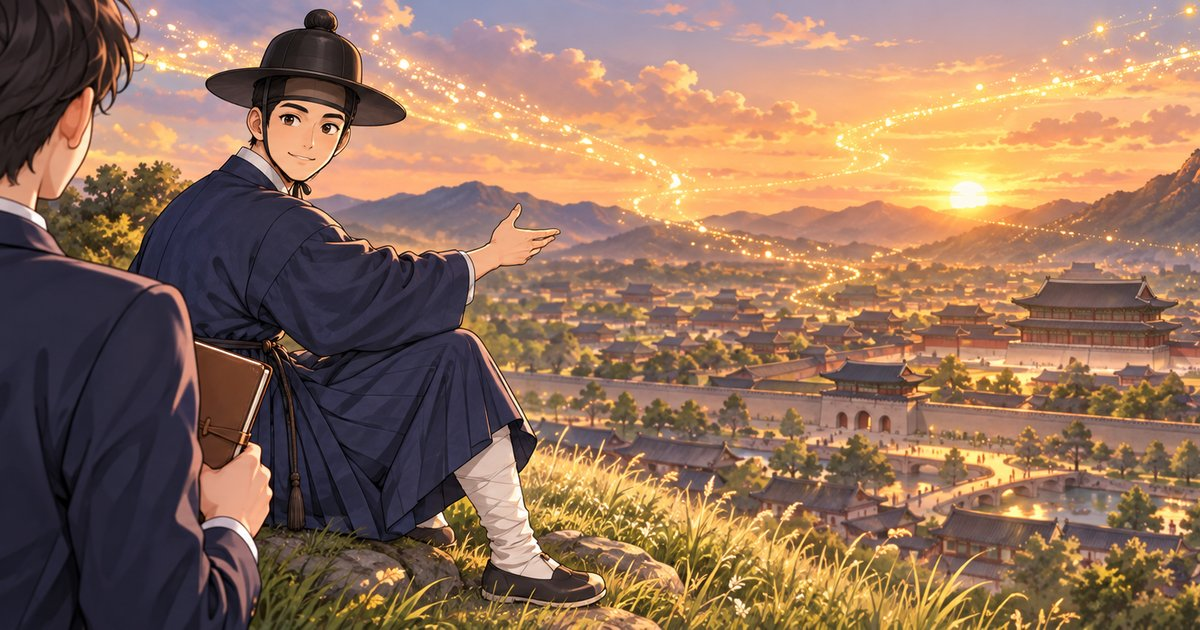
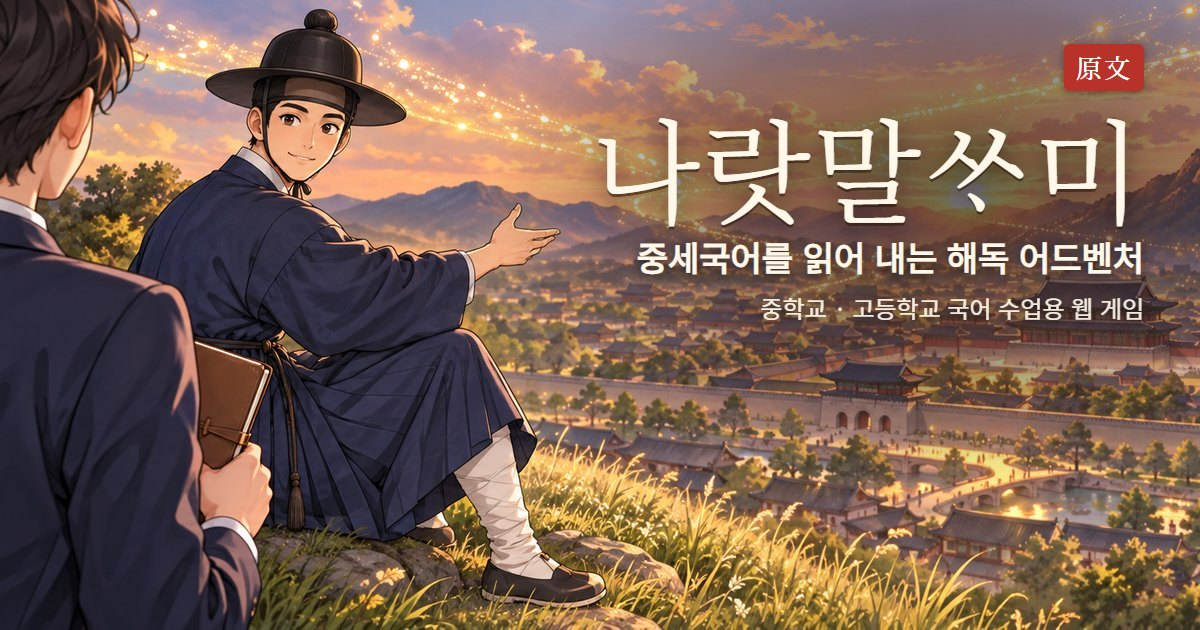
기능: 링크 공유 썸네일 — 그림에 게임 제목·부제를 얹은 og.jpg, og·twitter 메타를 전체 주소로
- tools/make_og.mjs: tests/pages/og-card.html(그림 design/art/og-art.jpg + 게임 글꼴 제목 나랏말ᄊᆞ미)을 브라우저로 찍어 assets/ui/og.jpg(1200×630)
- index.html: og:image·twitter:image 를 https://pblsketch.github.io/naratmalssami/ 전체 주소로(카카오톡·SNS 는 상대 경로 이미지를 못 가져옴), og:url·canonical·site_name·locale·image:alt·twitter 제목·설명
- tests/checks/og-meta.mjs: 전체 주소·파일 있음·canonical 일치 점검

diff --git a/index.html b/index.html
@@ -9,13 +9,24 @@
   <link rel="icon" type="image/png" sizes="32x32" href="assets/ui/favicon-32.png">
   <link rel="apple-touch-icon" href="assets/ui/apple-touch-icon.png">
   <meta name="theme-color" content="#1d1a17">
-  <meta property="og:title" content="나랏말ᄊᆞ미">
-  <meta property="og:description" content="중세국어를 읽어 내는 해독 어드벤처 — 국어 수업용 웹 게임">
+  <!-- 링크 공유 미리보기: 카카오톡·SNS 는 전체 주소(https://…)의 이미지만 가져온다. 썸네일은 tools/make_og.mjs 로 만든다 -->
+  <link rel="canonical" href="https://pblsketch.github.io/naratmalssami/">
   <meta property="og:type" content="website">
-  <meta property="og:image" content="assets/ui/og.jpg">
+  <meta property="og:site_name" content="나랏말ᄊᆞ미">
+  <meta property="og:locale" content="ko_KR">
+  <meta property="og:url" content="https://pblsketch.github.io/naratmalssami/">
+  <meta property="og:title" content="나랏말ᄊᆞ미 — 중세국어 해독 어드벤처">
+  <meta property="og:description" content="원문 속 낯선 글자를 풀어 사람들의 말을 이어 주는 정음 통사가 되어 보세요. 중학교·고등학교 국어 수업용 웹 게임.">
+  <meta property="og:image" content="https://pblsketch.github.io/naratmalssami/assets/ui/og.jpg">
+  <meta property="og:image:secure_url" content="https://pblsketch.github.io/naratmalssami/assets/ui/og.jpg">
+  <meta property="og:image:type" content="image/jpeg">
   <meta property="og:image:width" content="1200">
   <meta property="og:image:height" content="630">
+  <meta property="og:image:alt" content="갓을 쓴 선배 통사가 노을 진 옛 도성을 가리키는 그림과 게임 제목 나랏말ᄊᆞ미">
   <meta name="twitter:card" content="summary_large_image">
+  <meta name="twitter:title" content="나랏말ᄊᆞ미 — 중세국어 해독 어드벤처">
+  <meta name="twitter:description" content="원문 속 낯선 글자를 풀어 사람들의 말을 이어 주는 정음 통사가 되어 보세요. 중학교·고등학교 국어 수업용 웹 게임.">
+  <meta name="twitter:image" content="https://pblsketch.github.io/naratmalssami/assets/ui/og.jpg">
   <!-- styles:start -->
   <link rel="stylesheet" href="css/base.css">
   <link rel="stylesheet" href="css/fonts.css">

diff --git a/tests/pages/og-card.html b/tests/pages/og-card.html
@@ -1,0 +1,31 @@
+<!doctype html>
+<!-- 링크 공유 썸네일(assets/ui/og.jpg) 바탕: tools/make_og.mjs 가 이 쪽을 1200×630 으로 찍는다. 그림 원본 design/art/og-art.jpg -->
+<html lang="ko">
+<head>
+<meta charset="utf-8">
+<link rel="stylesheet" href="../../css/fonts.css">
+<style>
+  html, body { margin: 0; padding: 0; background: #1d1a17; }
+  #card { position: relative; width: 1200px; height: 630px; overflow: hidden; background: url('../../design/art/og-art.jpg') center / cover no-repeat; }
+  #card::before { content: ''; position: absolute; inset: 0;
+    background: radial-gradient(ellipse 52% 62% at 80% 30%, rgba(20, 14, 30, .62) 0%, rgba(20, 14, 30, .38) 45%, rgba(20, 14, 30, 0) 75%); }
+  .box { position: absolute; right: 56px; top: 44px; text-align: right; color: #fff8ea; }
+  .seal { display: inline-block; font-family: 'NMYet', serif; font-size: 26px; color: #fff; background: #b8322a;
+    padding: 4px 12px 6px; border-radius: 6px; letter-spacing: .08em; box-shadow: 0 2px 8px rgba(0,0,0,.35); }
+  .title { font-family: 'NMYet', 'NMYetExt', serif; font-size: 112px; line-height: 1.12; margin: 12px 0 6px; letter-spacing: .02em;
+    text-shadow: 0 3px 0 rgba(40, 20, 10, .55), 0 6px 24px rgba(0, 0, 0, .55); }
+  .sub { font-family: 'NMSans', sans-serif; font-weight: 700; font-size: 34px; line-height: 1.35; text-shadow: 0 2px 12px rgba(0, 0, 0, .7); }
+  .meta { font-family: 'NMSans', sans-serif; font-size: 24px; margin-top: 10px; opacity: .92; text-shadow: 0 2px 10px rgba(0, 0, 0, .7); }
+</style>
+</head>
+<body>
+  <div id="card">
+    <div class="box">
+      <span class="seal" id="seal"></span>
+      <div class="title" id="title"></div>
+      <div class="sub" id="sub"></div>
+      <div class="meta" id="meta"></div>
+    </div>
+  </div>
+</body>
+</html>
